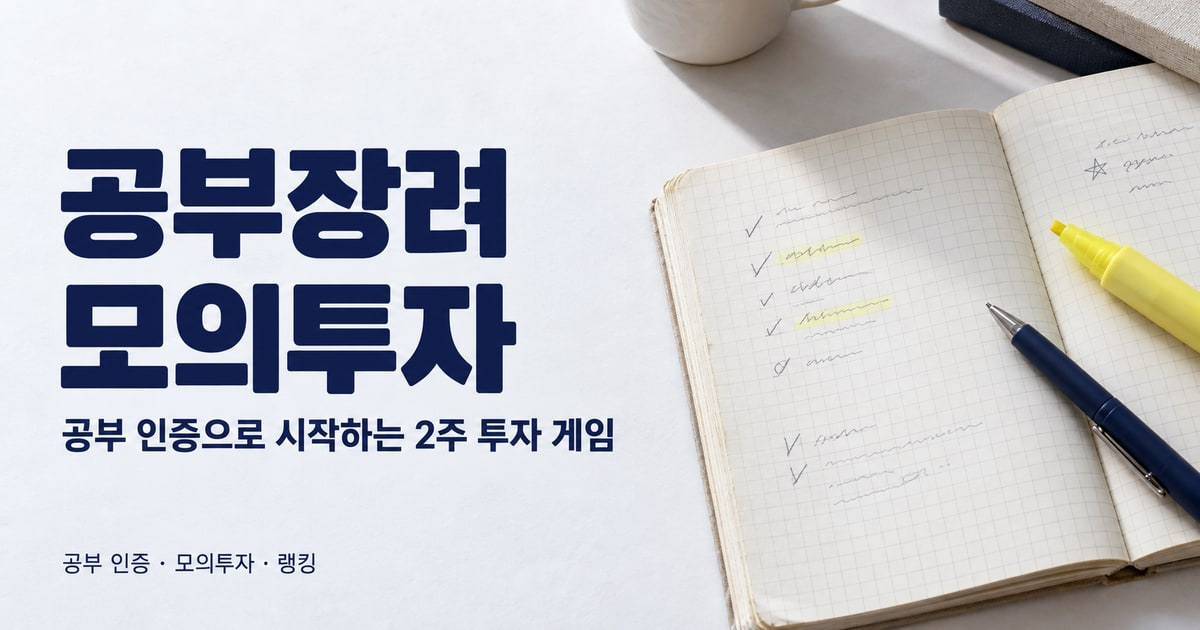
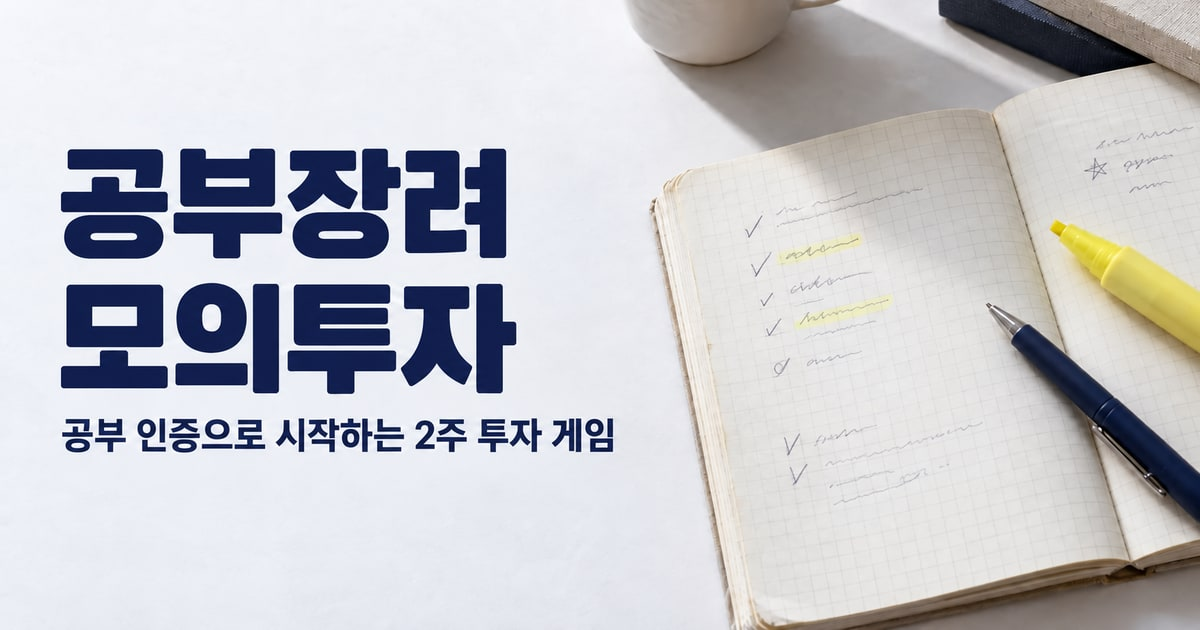
design: remove footer keywords from social preview

diff --git a/frontend/docs/preview-image.md b/frontend/docs/preview-image.md
@@ -17,6 +17,14 @@ Exact main headline in two lines:
 "공부장려"
 "모의투자"
 Exact smaller subtitle underneath: "공부 인증으로 시작하는 2주 투자 게임"
-Small plain footer at bottom left: "공부 인증 · 모의투자 · 랭킹"
+Leave the bottom-left area below the subtitle empty, with only the paper surface. No footer keywords.
 Only these texts. Text should remain easy to read at thumbnail size. The header occupies most of the left area. No English eyebrow, no button, no logo, no border framing the entire design. Yellow comes only from the actual highlighter on the desk. Color palette cool paper white, dark navy, restrained pencil gray. This is a polished Korean event identity, warm in spirit but cool-neutral in color. Photography should be mundane and tactile rather than hyperreal or glossy.
+```
+
+## 수정 프롬프트 — 하단 키워드 삭제
+
+기본 imagegen 편집 도구로 왼쪽 아래 키워드 문구를 삭제했다. 제목·부제·책상 구도는 유지했다.
+
+```text
+Edit this exact website preview image. Remove ONLY the small bottom-left footer text '공부 인증 · 모의투자 · 랭킹' and seamlessly fill its former area with the same cool white paper surface and subtle natural texture. Keep the entire rest of the image unchanged: the big navy Korean title '공부장려 모의투자', the subtitle '공부 인증으로 시작하는 2주 투자 게임', their typography, positions and sizes, the notebook, pen, highlighter, cup, lighting, crop, and 1200×630 landscape proportions. No new text or objects. This is a precise localized text-removal edit, not a redesign.
 ```
